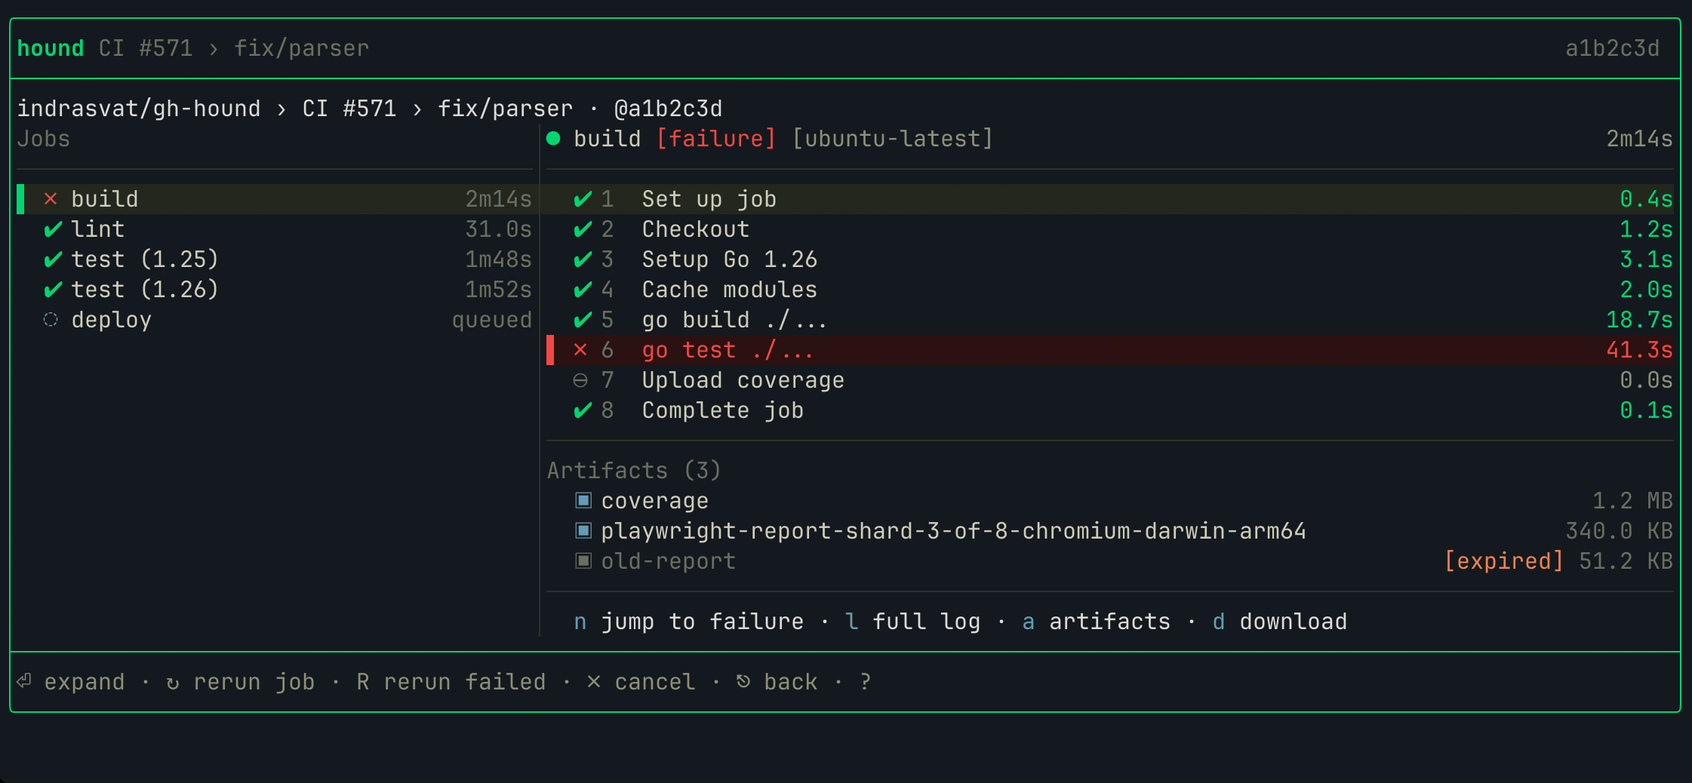
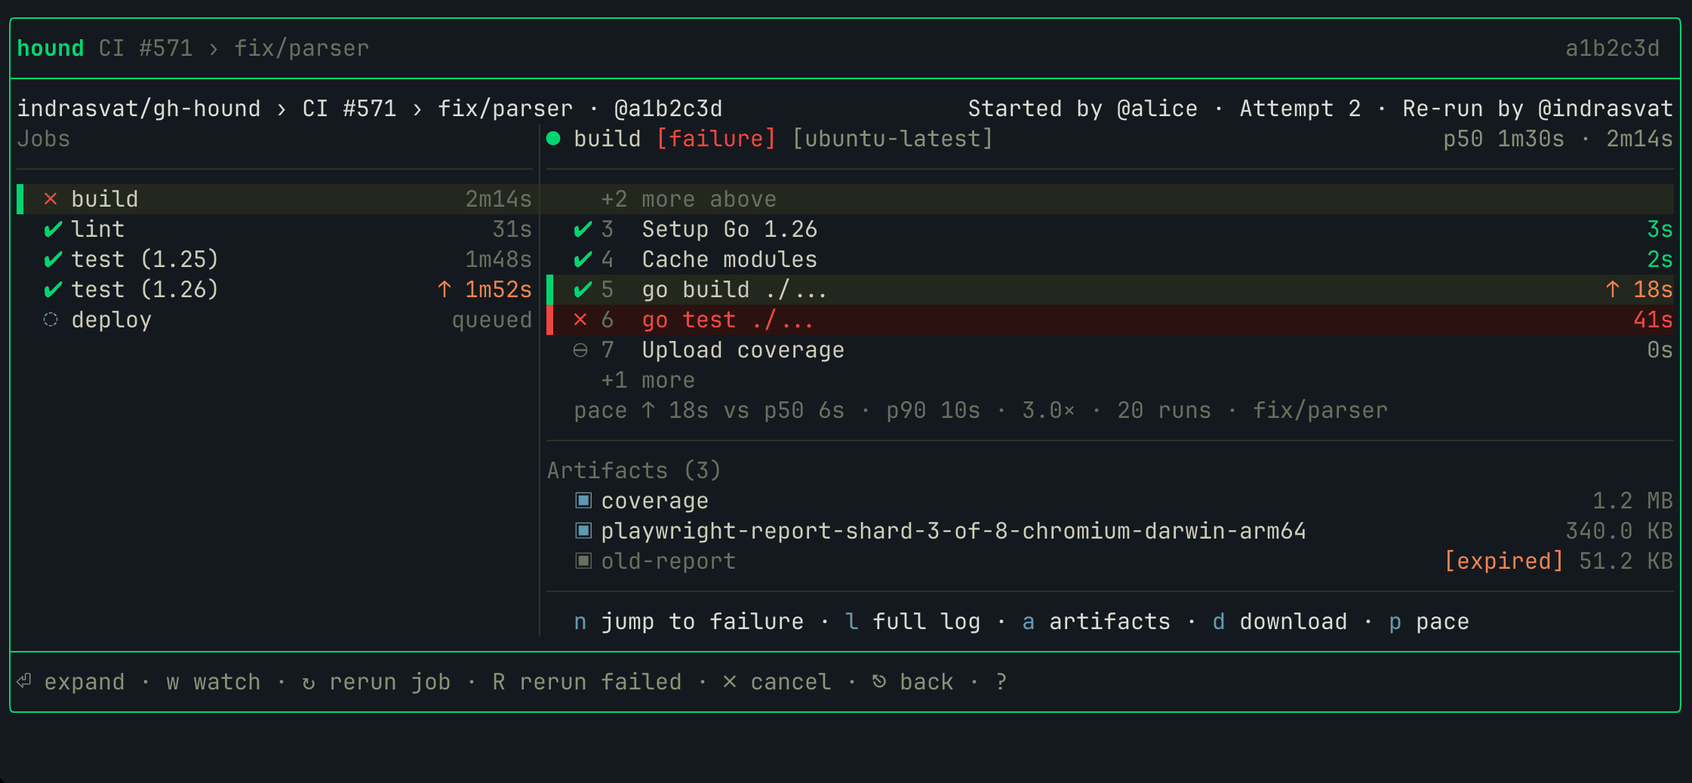
docs: the placeholder sparkline leaves the site, mock and PRD (#81)
Pace (v0.10.0) replaced the runs list's fake sparkline; the landing page,
design mock and PRD still showed it. Re-capture the runs and detail shots
from the Pace fixtures, add a Pace row to the triage trail, draw Pace
cells in the mock, point the PRD at Pace, drop the unused icon, and mark
task 460 implemented.

Claude-Session: https://claude.ai/code/session_01AwVAUArZ1knN8iQ6p46xmB

diff --git a/docs/gh-hound-design.html b/docs/gh-hound-design.html
@@ -143,7 +143,7 @@ p.body code{font-size:.86em;background:var(--surface);padding:1px 6px;border-rad
 .warn{color:var(--warn)} .dim{color:var(--dim)} .neutral{color:var(--neutral)}
 .sel{color:var(--ok);font-weight:700} .key{color:var(--info)} .acc{color:var(--ok)}
 .grp{color:var(--info)} .hi{background:var(--surface-2);color:var(--fg)} .match{color:var(--warn)}
-.spark{color:var(--info)} .fillok{color:var(--ok-deep)} .b{color:var(--fg)}
+.fillok{color:var(--ok-deep)} .b{color:var(--fg)}
 
 /* ---------- pain-point map ---------- */
 .pain{display:flex;flex-direction:column;gap:10px;margin-top:10px}
@@ -305,9 +305,8 @@ footer .sig{color:var(--ok);font-family:"JetBrains Mono",monospace}
 .ferr{color:var(--fail);padding:1px 13px}
 .attrib{display:flex;justify-content:space-between;gap:12px;flex-wrap:wrap;padding:7px 13px;color:var(--fg-soft)}
 
-/* sparkline (ntcharts / custom block map) */
-.spk{display:flex;align-items:flex-end;gap:2px;height:13px}
-.spk i{width:3px;background:var(--info);border-radius:1px;opacity:.8}
+/* Pace duration cell: measured duration, time left, or a slow flag */
+.pace{color:var(--dim);text-align:right} .pace.left{color:var(--run)} .pace.slow{color:var(--warn)} .pace.queued{color:var(--info)}
 
 /* master-detail */
 .md{display:grid;grid-template-columns:minmax(158px,210px) 1fr;min-width:520px}
@@ -628,7 +627,7 @@ footer .sig{color:var(--ok);font-family:"JetBrains Mono",monospace}
     <tr><td>Dispatch form</td><td><code>huh</code> / <code>bubbles/v2/textinput</code></td><td>Select, input, radio; real cursor via <code>tea.Cursor</code> (block, blink, colour).</td></tr>
     <tr><td>Palette &amp; help overlays</td><td><code>lipgloss/v2</code> Canvas + Layers</td><td>Z-indexed layers float a modal over a dimmed base — new in v2.</td></tr>
     <tr><td>Help content</td><td><code>bubbles/v2/help</code> + <code>key</code></td><td>Auto-generated from the keymap; keymap is user-configurable.</td></tr>
-    <tr><td>Duration sparklines</td><td><code>ntcharts</code> / custom block map</td><td>Nimble Terminal Charts for Bubble Tea + Lip Gloss.</td></tr>
+    <tr><td>Duration cell (Pace)</td><td>plain text</td><td>Measured duration, time left from recent green runs, or <code>↑</code> when slow. No charting library.</td></tr>
     <tr><td>Theme (light/dark)</td><td>explicit styles</td><td>Lip Gloss v2 removed <code>AdaptiveColor</code> — so a fixed, hand-tuned theme is the idiomatic path, with truecolor degrading to 256/16/ASCII.</td></tr>
   </table></div>
   <div class="note">Border titles (the <span class="mono">╭ hound ─ … ╮</span> headers) aren't a built-in — Lip Gloss borders are plain rectangles. hound composes the title onto the top edge as a render step (string overlay), the same technique mature Charm apps use.</div>
@@ -662,7 +661,7 @@ footer .sig{color:var(--ok);font-family:"JetBrains Mono",monospace}
     <tr><td><span class="swix" style="background:var(--ok)"></span><code>ok</code></td><td>#4FD37A</td><td>success · live · cursor bar · brand</td><td>conclusion=success</td></tr>
     <tr><td><span class="swix" style="background:var(--fail)"></span><code>fail</code></td><td>#E2564B</td><td>failure · error</td><td>conclusion=failure</td></tr>
     <tr><td><span class="swix" style="background:var(--run)"></span><code>run</code></td><td>#E0A33E</td><td>in_progress</td><td>status=in_progress</td></tr>
-    <tr><td><span class="swix" style="background:var(--info)"></span><code>info</code></td><td>#6E9CB5</td><td>queued/pending · keys · sparkline</td><td>status=queued</td></tr>
+    <tr><td><span class="swix" style="background:var(--info)"></span><code>info</code></td><td>#6E9CB5</td><td>queued/pending · keys</td><td>status=queued</td></tr>
     <tr><td><span class="swix" style="background:var(--warn)"></span><code>warn</code></td><td>#E8895A</td><td>action_required · timed_out</td><td>conclusion=action_required</td></tr>
     <tr><td><span class="swix" style="background:var(--neutral)"></span><code>neutral</code></td><td>#6B7060</td><td>cancelled · stale · skipped</td><td>conclusion=cancelled/skipped</td></tr>
   </table></div>
@@ -692,7 +691,7 @@ footer .sig{color:var(--ok);font-family:"JetBrains Mono",monospace}
     <div class="ico"><span class="g info">⎇</span><span class="t"><b>branch</b>U+2387</span></div>
     <div class="ico"><span class="g dim">›</span><span class="t"><b>breadcrumb</b>U+203A</span></div>
     <div class="ico"><span class="g acc">▾ ▸</span><span class="t"><b>fold</b>U+25BE/B8</span></div>
-    <div class="ico"><span class="g spark">▁▂▃▅▇</span><span class="t"><b>sparkline</b>blocks</span></div>
+    <div class="ico"><span class="g" style="color:var(--warn)">↑</span><span class="t"><b>slow</b>Pace flag</span></div>
     <div class="ico"><span class="g info">❯</span><span class="t"><b>prompt</b>U+276F</span></div>
     <div class="ico"><span class="g acc">↻</span><span class="t"><b>rerun</b>U+21BB</span></div>
     <div class="ico"><span class="g acc">▶</span><span class="t"><b>dispatch</b>U+25B6</span></div>
@@ -753,12 +752,12 @@ footer .sig{color:var(--ok);font-family:"JetBrains Mono",monospace}
     <div class="t-body">
       <div class="colhead g"><span></span><span>Workflow</span><span>Event</span><span>#</span><span>Duration</span><span>Age</span></div>
       <div class="runs">
-        <div class="tr cur"><span class="st fail">✗</span><span class="b">CI</span><span class="ev">pull_request</span><span class="num">571</span><span class="spk"><i style="height:35%"></i><i style="height:60%"></i><i style="height:100%"></i><i style="height:70%"></i><i style="height:45%"></i></span><span class="age">12s</span></div>
-        <div class="tr"><span class="st run">⠹</span><span class="b">CI</span><span class="ev">push</span><span class="num">570</span><span class="spk"><i style="height:40%"></i><i style="height:55%"></i><i style="height:80%"></i><i style="height:30%;opacity:.4"></i><i style="height:20%;opacity:.4"></i></span><span class="age">now</span></div>
-        <div class="tr"><span class="st ok">✔</span><span class="b">Release</span><span class="ev">push</span><span class="num">569</span><span class="spk"><i style="height:30%"></i><i style="height:35%"></i><i style="height:50%"></i><i style="height:65%"></i><i style="height:50%"></i></span><span class="age">3m</span></div>
-        <div class="tr"><span class="st ok">✔</span><span class="b">CodeQL</span><span class="ev">schedule</span><span class="num">568</span><span class="spk"><i style="height:55%"></i><i style="height:75%"></i><i style="height:100%"></i><i style="height:85%"></i><i style="height:70%"></i></span><span class="age">2h</span></div>
-        <div class="tr"><span class="st cancel">⊘</span><span class="b">CI</span><span class="ev">workflow_dispatch</span><span class="num">567</span><span class="spk"><i style="height:25%"></i><i style="height:25%;opacity:.4"></i></span><span class="age">3h</span></div>
-        <div class="tr"><span class="st queue">◌</span><span class="b">Deploy</span><span class="ev">push</span><span class="num">566</span><span class="spk" style="opacity:.4"><i style="height:15%"></i><i style="height:15%"></i></span><span class="age">3h</span></div>
+        <div class="tr cur"><span class="st fail">✗</span><span class="b">CI</span><span class="ev">pull_request</span><span class="num">571</span><span class="pace">2m14s</span><span class="age">12s</span></div>
+        <div class="tr"><span class="st run">⠹</span><span class="b">CI</span><span class="ev">push</span><span class="num">570</span><span class="pace left">3m left</span><span class="age">now</span></div>
+        <div class="tr"><span class="st ok">✔</span><span class="b">Release</span><span class="ev">push</span><span class="num">569</span><span class="pace slow">↑ 9m31s</span><span class="age">3m</span></div>
+        <div class="tr"><span class="st ok">✔</span><span class="b">CodeQL</span><span class="ev">schedule</span><span class="num">568</span><span class="pace">4m05s</span><span class="age">2h</span></div>
+        <div class="tr"><span class="st cancel">⊘</span><span class="b">CI</span><span class="ev">workflow_dispatch</span><span class="num">567</span><span class="pace">1m02s</span><span class="age">3h</span></div>
+        <div class="tr"><span class="st queue">◌</span><span class="b">Deploy</span><span class="ev">push</span><span class="num">566</span><span class="pace queued">queued</span><span class="age">3h</span></div>
       </div>
       <div style="padding:7px 13px 1px;color:var(--dim)"><span style="color:var(--fail)">1 failing</span> · <span style="color:var(--run)">1 running</span> · 4 passed</div>
     </div>
@@ -773,9 +772,9 @@ footer .sig{color:var(--ok);font-family:"JetBrains Mono",monospace}
       <div class="colhead g"><span>#</span><span>St</span><span>Workflow / detail</span><span>Actor</span><span>Event</span><span>Dur.</span><span>Age</span></div>
       <div class="filterin"><span class="p">/</span><span>actor:@me status:failure</span><span class="cur"></span></div>
       <div class="fhint">actor:@me · actor:login · status:failure · branch:trunk · event:push</div>
-      <div class="tr cur"><span class="num">#701</span><span class="st fail">✗</span><span class="b">CI · fix: flaky lexer test</span><span class="actor">@indrasvat</span><span class="ev">push</span><span class="spk"><i style="height:35%"></i><i style="height:60%"></i><i style="height:100%"></i><i style="height:70%"></i></span><span class="age">12m</span></div>
-      <div class="tr"><span class="num">#700</span><span class="st ok">✔</span><span class="b">Release · chore(deps): bump x/term</span><span class="actor">@dependabot[bot]</span><span class="ev">push</span><span class="spk"><i style="height:30%"></i><i style="height:50%"></i><i style="height:65%"></i></span><span class="age">36m</span></div>
-      <div class="tr"><span class="num">#699</span><span class="st cancel">⊘</span><span class="b">CI · imported run</span><span class="actor na">unavailable</span><span class="ev">push</span><span class="spk"><i style="height:25%"></i></span><span class="age">2h</span></div>
+      <div class="tr cur"><span class="num">#701</span><span class="st fail">✗</span><span class="b">CI · fix: flaky lexer test</span><span class="actor">@indrasvat</span><span class="ev">push</span><span class="pace">3m12s</span><span class="age">12m</span></div>
+      <div class="tr"><span class="num">#700</span><span class="st ok">✔</span><span class="b">Release · chore(deps): bump x/term</span><span class="actor">@dependabot[bot]</span><span class="ev">push</span><span class="pace">48s</span><span class="age">36m</span></div>
+      <div class="tr"><span class="num">#699</span><span class="st cancel">⊘</span><span class="b">CI · imported run</span><span class="actor na">unavailable</span><span class="ev">push</span><span class="pace">—</span><span class="age">2h</span></div>
     </div>
     <div class="t-foot"><span><k>⏎</k>apply</span><span><k>⎋</k>cancel</span><span><k>ctrl+u</k>clear</span></div>
   </div>
@@ -893,9 +892,9 @@ footer .sig{color:var(--ok);font-family:"JetBrains Mono",monospace}
       <div class="t-body dimbg">
         <div class="colhead g"><span></span><span>Workflow</span><span>Event</span><span>#</span><span>Duration</span><span>Age</span></div>
         <div class="runs">
-          <div class="tr"><span class="st ok">✔</span><span class="b">CI</span><span class="ev">push</span><span class="num">569</span><span class="spk"><i style="height:40%"></i><i style="height:60%"></i><i style="height:50%"></i></span><span class="age">3m</span></div>
-          <div class="tr"><span class="st ok">✔</span><span class="b">CodeQL</span><span class="ev">schedule</span><span class="num">568</span><span class="spk"><i style="height:55%"></i><i style="height:80%"></i><i style="height:70%"></i></span><span class="age">2h</span></div>
-          <div class="tr"><span class="st ok">✔</span><span class="b">Release</span><span class="ev">push</span><span class="num">567</span><span class="spk"><i style="height:30%"></i><i style="height:45%"></i><i style="height:40%"></i></span><span class="age">5h</span></div>
+          <div class="tr"><span class="st ok">✔</span><span class="b">CI</span><span class="ev">push</span><span class="num">569</span><span class="pace">4m05s</span><span class="age">3m</span></div>
+          <div class="tr"><span class="st ok">✔</span><span class="b">CodeQL</span><span class="ev">schedule</span><span class="num">568</span><span class="pace">3m58s</span><span class="age">2h</span></div>
+          <div class="tr"><span class="st ok">✔</span><span class="b">Release</span><span class="ev">push</span><span class="num">567</span><span class="pace slow">↑ 9m31s</span><span class="age">5h</span></div>
         </div>
       </div>
       <div class="toastwrap">
@@ -983,7 +982,7 @@ footer .sig{color:var(--ok);font-family:"JetBrains Mono",monospace}
   <p class="body">A terminal has no room to waste. hound answers the 80% question on one line, then reveals depth on demand — four levels, each one <code>⏎</code> deeper, <code>⎋</code> shallower. A breadcrumb always shows where you are; on narrow terminals the right detail pane collapses into a full-screen push rather than truncating. The most likely <i>next action</i> is always the most prominent thing on screen — a failed run surfaces "rerun failed," a running one surfaces "watch," a green one gets out of your way.</p>
   <div class="ladder">
     <div class="rung"><div class="lv">L0</div><div><h5>Glance</h5><p>One header line: branch, counts — <span class="mono">"1 failing · 1 running"</span>. Answers <i>is it green?</i> before you read a table.</p><span class="kk">always visible</span></div></div>
-    <div class="rung"><div class="lv">L1</div><div><h5>List</h5><p>The runs table — status, workflow, duration sparkline, age. The landing screen, and where 90% of time is spent.</p><span class="kk">⏎ from L0 · the default</span></div></div>
+    <div class="rung"><div class="lv">L1</div><div><h5>List</h5><p>The runs table — status, workflow, duration (time left while running, ↑ when slow), age. The landing screen, and where 90% of time is spent.</p><span class="kk">⏎ from L0 · the default</span></div></div>
     <div class="rung"><div class="lv">L2</div><div><h5>Detail</h5><p>Jobs + step timeline for one run, master-detail. The failed step pre-flagged so the next keystroke is obvious.</p><span class="kk">⏎ on a run · ⎋ back</span></div></div>
     <div class="rung"><div class="lv">L3</div><div><h5>Deep</h5><p>The de-noised error window + annotations — and only if you ask, the full folded log. The long tail stays hidden until summoned.</p><span class="kk">n jump · l full log · ⤓ expand</span></div></div>
   </div>
@@ -1012,7 +1011,7 @@ footer .sig{color:var(--ok);font-family:"JetBrains Mono",monospace}
   <h2>v1 — the daily loop</h2>
   <p class="body">Every line ships because a stable endpoint backs it.</p>
   <div class="feat">
-    <div class="frow"><span class="n">✔</span><div class="d"><b>Runs list, branch-scoped, filterable</b><br><span>status / branch / event / actor · live spinner · duration sparkline · age. The home screen.</span></div><span class="ep">GET …/actions/runs</span></div>
+    <div class="frow"><span class="n">✔</span><div class="d"><b>Runs list, branch-scoped, filterable</b><br><span>status / branch / event / actor · live spinner · duration with time left and slow flags · age. The home screen.</span></div><span class="ep">GET …/actions/runs</span></div>
     <div class="frow"><span class="n">✔</span><div class="d"><b>Run detail — jobs &amp; step timeline</b><br><span>Master-detail; steps light up by conclusion; failed step flagged.</span></div><span class="ep">GET …/runs/{id}/jobs</span></div>
     <div class="frow"><span class="n">✔</span><div class="d"><b>De-noised failure view</b><br><span>Error window + inline annotations instead of the full log.</span></div><span class="ep">jobs/{id}/logs · annotations</span></div>
     <div class="frow"><span class="n">✔</span><div class="d"><b>Live watch</b><br><span>Adaptive-poll step timeline; logs unlock on completion.</span></div><span class="ep">GET …/runs/{id}/jobs + ETag</span></div>

diff --git a/pages/index.html b/pages/index.html
@@ -68,9 +68,9 @@
     </div>
     <figure class="hero-term rise d4">
       <div class="term">
-        <img src="/assets/shots/runs.png" alt="gh-hound runs screen: a branch-scoped list of workflow runs with status glyphs, actors, events, duration sparklines and rate budget, with the / filter open on actor:@me status:failure" width="2240" height="782" fetchpriority="high">
+        <img src="/assets/shots/runs.png" alt="gh-hound runs screen: a branch-scoped list of workflow runs with status glyphs, actors, events and durations; a running run reads 2m left, a slow one ↑ 9m31s" width="2240" height="702" fetchpriority="high">
       </div>
-      <figcaption>the runs home: status, actor, event, duration sparkline, age, rate budget · / filters by actor:@me, status, branch</figcaption>
+      <figcaption>the runs home: status, actor, event, duration, age · Pace reads time left and flags slow runs (↑) against recent green runs</figcaption>
     </figure>
   </header>
 
@@ -114,6 +114,11 @@
         <p class="trail-q">Why is it still pending?</p>
         <div class="keys"><span class="key">gh hound queue</span></div>
         <p class="trail-a">Reads the concurrency group and names the <b>older blocker, newer preemptor, or stale-looking lock</b>.</p>
+      </div>
+      <div class="trail-row reveal">
+        <p class="trail-q">Nearly done, or stuck?</p>
+        <div class="keys"><span class="key">p</span><span class="key">gh hound pace</span></div>
+        <p class="trail-a">Judges a run against its recent green runs: <b>time left while it runs, &uarr; on the run, job and step that ran slow</b>.</p>
       </div>
       <div class="trail-row reveal">
         <p class="trail-q">Can I retry safely?</p>
@@ -174,8 +179,8 @@
     </div>
     <div class="shot-stage reveal">
       <figure class="shot active" id="shot-detail" role="tabpanel">
-        <div class="term"><img src="/assets/shots/detail.png" alt="Run detail screen: master-detail view of jobs, step timeline with durations, and the run's artifacts" loading="lazy" width="2242" height="1038"></div>
-        <figcaption class="shot-caption">jobs, step timeline and artifacts · n jumps to the failure</figcaption>
+        <div class="term"><img src="/assets/shots/detail.png" alt="Run detail screen: jobs, step timeline with durations, a slow step flagged ↑ 18s with its pace line, and the run's artifacts" loading="lazy" width="2242" height="1038"></div>
+        <figcaption class="shot-caption">jobs, step timeline and artifacts · slow jobs and steps flagged ↑ · n jumps to the failure</figcaption>
       </figure>
       <figure class="shot" id="shot-failure" role="tabpanel" hidden>
         <div class="term"><img src="/assets/shots/failure.png" alt="Failure screen: annotations, failing step, exit code and a de-noised log excerpt" loading="lazy" width="2242" height="670"></div>

diff --git a/internal/tui/icons/icons.go b/internal/tui/icons/icons.go
@@ -17,7 +17,6 @@ const (
 	Breadcrumb     = "›"
 	FoldOpen       = "▾"
 	FoldClosed     = "▸"
-	Sparkline      = "▁▂▃▅▇"
 	Prompt         = "❯"
 	Rerun          = "↻"
 	// Slow marks a run that took meaningfully longer than its usual.

diff --git a/docs/gh-hound-PRD.md b/docs/gh-hound-PRD.md
@@ -140,7 +140,7 @@ gh-hound/
 │   │   ├── app.go               # root model, modal/focus stack, routing
 │   │   ├── keys/                # key.Map definitions per context (§7)
 │   │   ├── screens/             # one model per screen (§9)
-│   │   ├── components/          # reusable: statuspill, sparkline, toast, breadcrumb
+│   │   ├── components/          # reusable: statuspill, toast, breadcrumb
 │   │   └── overlay/             # help modal, command palette (lipgloss Canvas/Layer)
 │   ├── usecase/                 # orchestration (no Bubble Tea, no HTTP)
 │   ├── adapter/                 # GitHub port + go-gh implementation + cache + poller + log parse
@@ -187,7 +187,7 @@ gh-hound/
 
 > **Gotcha (Lip Gloss v2):** `AdaptiveColor` was **removed**. Light/dark is explicit — query once via `tea.RequestBackgroundColor` → `tea.BackgroundColorMsg.IsDark()`, then select the Bramble/Bone token set. Do **not** reach for `AdaptiveColor`. (§5, §20)
 
-> **Sparklines:** hand-roll (map a normalised value to one of `▁▂▃▄▅▆▇█`). No charting dependency required for v1.
+> **Duration cell:** plain text, no charting dependency. Pace (#74, #75) replaced the planned sparkline with the measured duration, time left from recent green runs, and `↑` when a run ran slow; see `docs/visual-contract.md`.
 
 > **Dependency baseline = gh-ghent (the approved extension), upgraded to the v2 Charm stack.** gh-ghent's `go.mod` is `module github.com/indrasvat/gh-ghent`, `go 1.26.0`, with `cli/go-gh/v2`, `spf13/cobra`, `golang.org/x/sync` (serial queue / errgroup), `muesli/termenv`, `google/go-cmp` (tests). Mirror those exact choices; the **only** deliberate divergence is using **Bubble Tea / Lip Gloss / Bubbles v2** (as nidhi does) instead of ghent's v1.
 
@@ -298,7 +298,7 @@ Default **Bramble** (dark): warm ink-and-bone neutrals, one electric "on-the-sce
 | `ok` | `#4FD37A` | `#1F9E55` | success · live · cursor bar · brand |
 | `fail` | `#E2564B` | `#C24033` | failure · error |
 | `run` | `#E0A33E` | `#B57A1E` | in_progress |
-| `info` | `#6E9CB5` | `#3E7491` | queued/pending · keys · sparkline |
+| `info` | `#6E9CB5` | `#3E7491` | queued/pending · keys |
 | `warn` | `#E8895A` | `#C2632F` | action_required · timed_out |
 | `neutral` | `#6B7060` | `#8A8773` | cancelled · stale · skipped |
 
@@ -332,7 +332,7 @@ Default **Bramble** (dark): warm ink-and-bone neutrals, one electric "on-the-sce
 | failure | `✗` | U+2717 | branch | `⎇` | U+2387 |
 | in_progress | `⠹` (braille spinner) | — | breadcrumb | `›` | U+203A |
 | queued | `◌` | U+25CC | fold open/closed | `▾`/`▸` | U+25BE/B8 |
-| cancelled | `⊘` | U+2298 | sparkline | `▁▂▃▅▇` | blocks |
+| cancelled | `⊘` | U+2298 | slow (Pace) | `↑` | U+2191 |
 | skipped | `⊝` | U+229D | prompt | `❯` | U+276F |
 | action_required | `▲` | U+25B2 | rerun | `↻` | U+21BB |
 | timed_out | `⧗` | U+29D7 | dispatch | `▶` | U+25B6 |
@@ -509,8 +509,8 @@ Per screen below: **purpose · when shown · layout/components · data · contex
 ### §9.1 Runs list (landing) — visual ref §②
 
 - **Purpose / when:** the home screen; the no-arg default mid-flight (some runs failing/running).
-- **Layout:** focused panel (gradient border). Header: `hound` mark · breadcrumb (`⎇ branch · @actor`) · right: rate budget, live pulse, `304` cache indicator. Body: a `bubbles/v2/table` — columns `status-glyph · Workflow · Event · # · Duration(sparkline) · Age`. Selected row = `surface-2` fill + green bar. Summary line: `N failing · N running · N passed`. Footer (contextual).
-- **Components:** `table`, `spinner` (live cell), `sparkline` (hand-rolled bars), status pills, `breadcrumb`.
+- **Layout:** focused panel (gradient border). Header: `hound` mark · breadcrumb (`⎇ branch · @actor`) · right: rate budget, live pulse, `304` cache indicator. Body: a `bubbles/v2/table` — columns `status-glyph · Workflow · Event · # · Duration · Age` (Duration: measured time, time left, or `↑` when slow — Pace). Selected row = `surface-2` fill + green bar. Summary line: `N failing · N running · N passed`. Footer (contextual).
+- **Components:** `table`, `spinner` (live cell), the Pace duration cell, status pills, `breadcrumb`.
 - **Data:** `GET …/runs?branch&per_page` (§4.1); adaptive poll; ETag.
 - **Keys:** `j/k g/G ⏎ l w o y r R x X D / : ? T` (§7.3). Footer: `⏎ open · ↻ rerun · ✗ cancel · l logs · w watch · / filter · ? help`.
 - **States:** loading (skeleton rows + spinner), empty (→ widen, §8.2), error (toast + cached rows, §12), live (spinner cells update in place).
@@ -601,7 +601,7 @@ Three target geometries; define column-collapse rules for each:
 
 | Breakpoint | Layout rule |
 |---|---|
-| **80×24** (min) | single column; master-detail becomes a full-screen push (detail replaces list, `⎋` returns); drop the Event and sparkline columns from the runs table; keep glyph · Workflow · # · Age. |
+| **80×24** (min) | single column; master-detail becomes a full-screen push (detail replaces list, `⎋` returns); drop the Event and Duration columns from the runs table; keep glyph · Workflow · # · Age. |
 | **120×40** (default) | master-detail side-by-side; full runs columns. |
 | **200×60** (wide) | side-by-side with extra padding; show actor + SHA in the runs table. |
 

diff --git a/docs/tasks/460-pace-step-flags.md b/docs/tasks/460-pace-step-flags.md
@@ -2,7 +2,7 @@
 
 ## Status
 
-IN PROGRESS — issue #75. Builds on run-level Pace (#74, task 450).
+IMPLEMENTED — issue #75, PR #78, released in v0.10.0. Builds on run-level Pace (#74, task 450).
 
 ## Ownership Boundary
 
